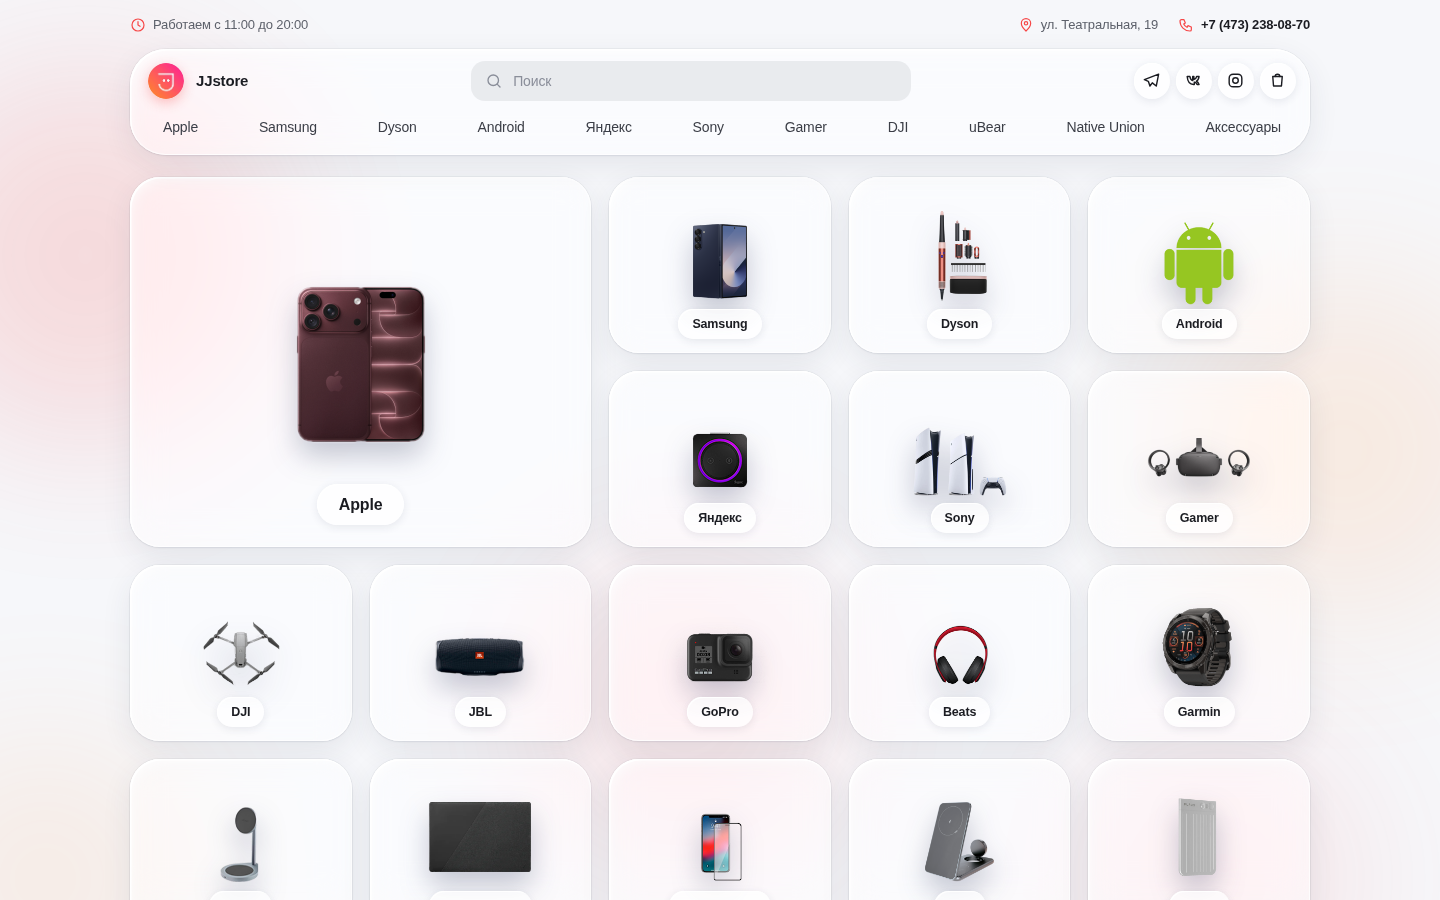
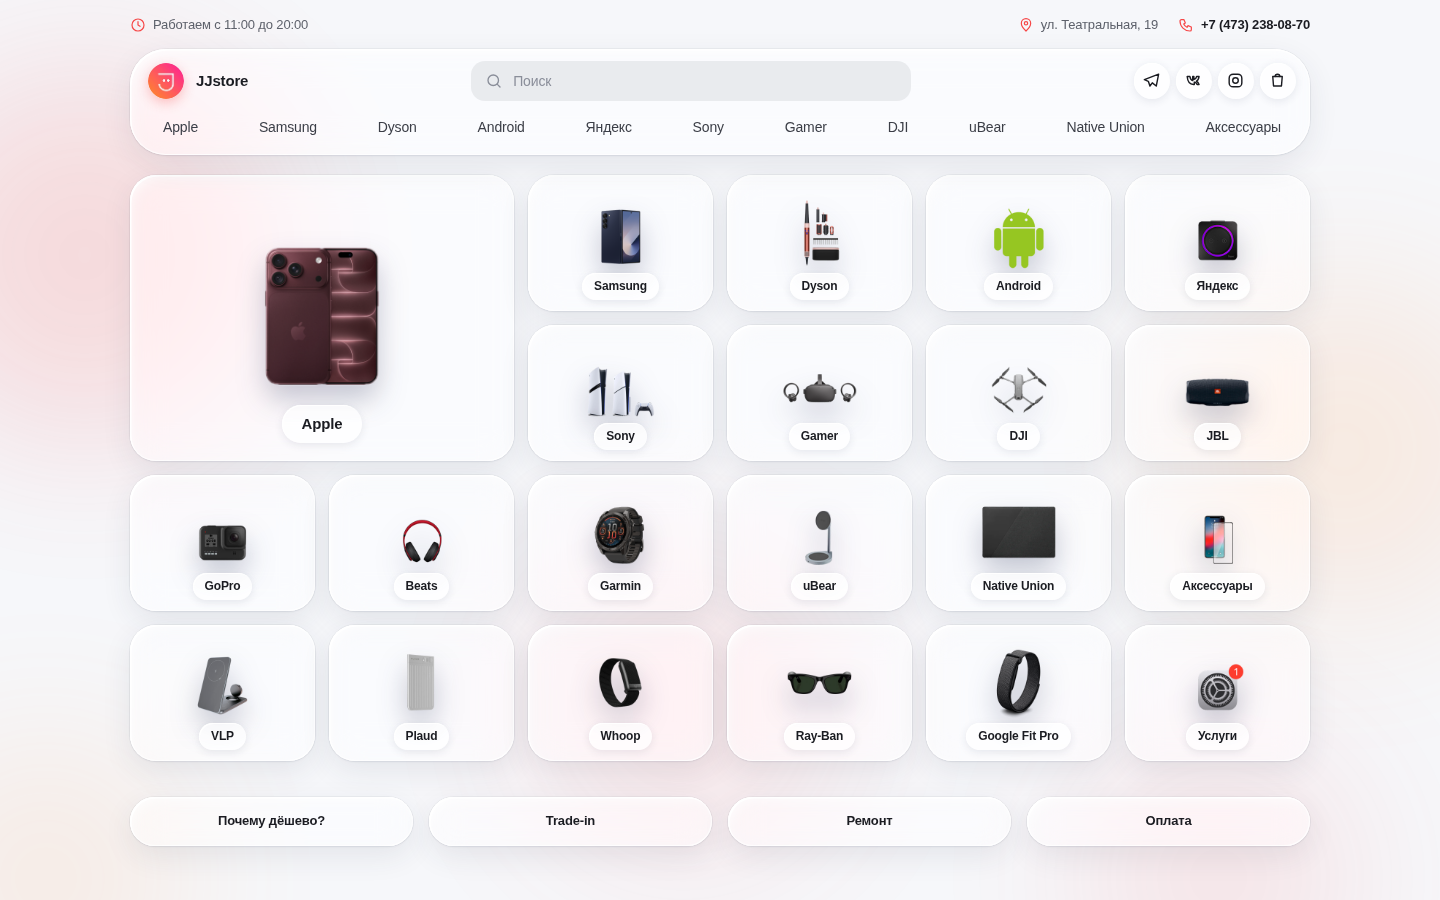
Compact category wall (6 columns)
Claude-Session: https://claude.ai/code/session_0163ZjdM2uxMpsZRiagcJtBK

diff --git a/assets/style.css b/assets/style.css
@@ -195,3 +195,13 @@ svg{width:1em;height:1em;fill:none;stroke:currentColor;stroke-width:1.8;stroke-l
 .search>svg{left:14px;right:auto;top:11px;font-size:18px;color:#8a8e99;transition:color .25s}
 .search:focus-within{background:rgba(255,255,255,.95);box-shadow:0 0 0 3px rgba(246,71,71,.22),0 8px 24px rgba(40,50,80,.1);max-width:520px}
 .search:focus-within>svg{color:var(--accent)}
+
+/* compact category wall: 6 columns, smaller tiles */
+.wall{grid-template-columns:repeat(6,1fr);grid-auto-rows:136px;gap:14px;margin-top:20px}
+.tile{--r:26px;border-radius:26px}
+.tile img{max-height:54%;max-width:60%;top:42%}
+.tile.feat img{max-height:62%;max-width:54%;top:44%}
+.tile span{font-size:12px;padding:5px 12px;margin-bottom:11px}
+.tile.feat span{font-size:15px;padding:8px 20px;margin-bottom:18px}
+@media(max-width:980px){.wall{grid-template-columns:repeat(4,1fr);grid-auto-rows:124px;gap:12px}}
+@media(max-width:760px){.wall{grid-template-columns:repeat(2,1fr);grid-auto-rows:124px;gap:10px}.tile.feat{grid-column:span 2;grid-row:span 2}}

diff --git a/index.html b/index.html
@@ -78,7 +78,7 @@
     <a class="tile glass" href="https://jjstore.ru/whoop" target="_blank" rel="noopener"><img src="assets/cat/whoop.png" alt="Whoop" loading="lazy"><span>Whoop</span></a>
     <a class="tile glass" href="https://jjstore.ru/ray-ban" target="_blank" rel="noopener"><img src="assets/cat/ray-ban.png" alt="Ray-Ban" loading="lazy"><span>Ray-Ban</span></a>
     <a class="tile glass" href="https://jjstore.ru/google-fit-pro" target="_blank" rel="noopener"><img src="assets/cat/google-fit-pro.png" alt="Google Fit Pro" loading="lazy"><span>Google Fit Pro</span></a>
-    <a class="tile glass wide" href="https://jjstore.ru/uslugi" target="_blank" rel="noopener"><img src="assets/cat/uslugi.png" alt="Услуги" loading="lazy"><span>Услуги</span></a>
+    <a class="tile glass" href="https://jjstore.ru/uslugi" target="_blank" rel="noopener"><img src="assets/cat/uslugi.png" alt="Услуги" loading="lazy"><span>Услуги</span></a>
   </section>
 
   <section class="quick">
